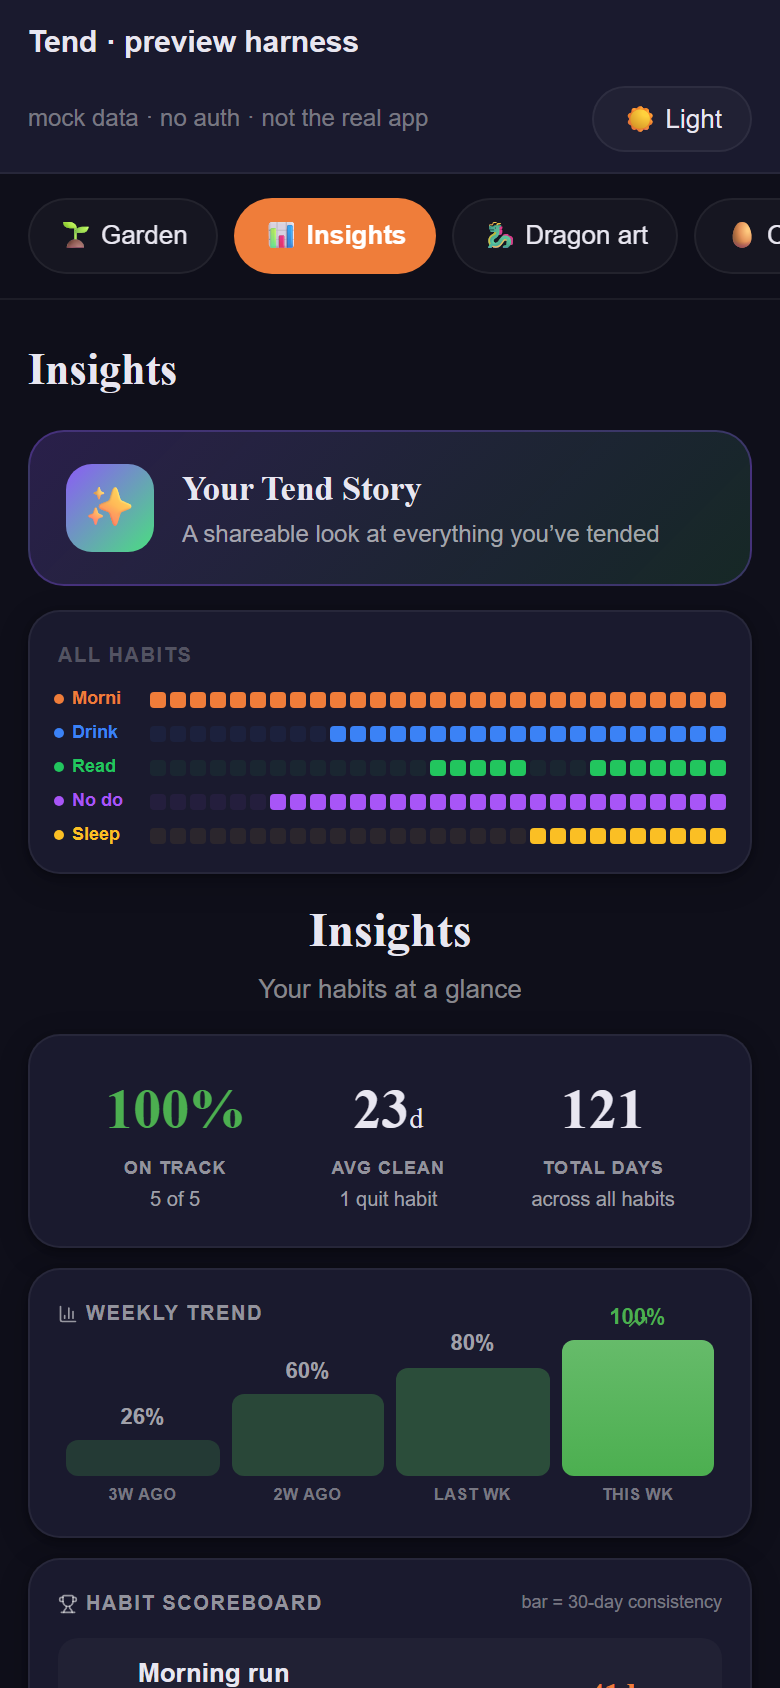
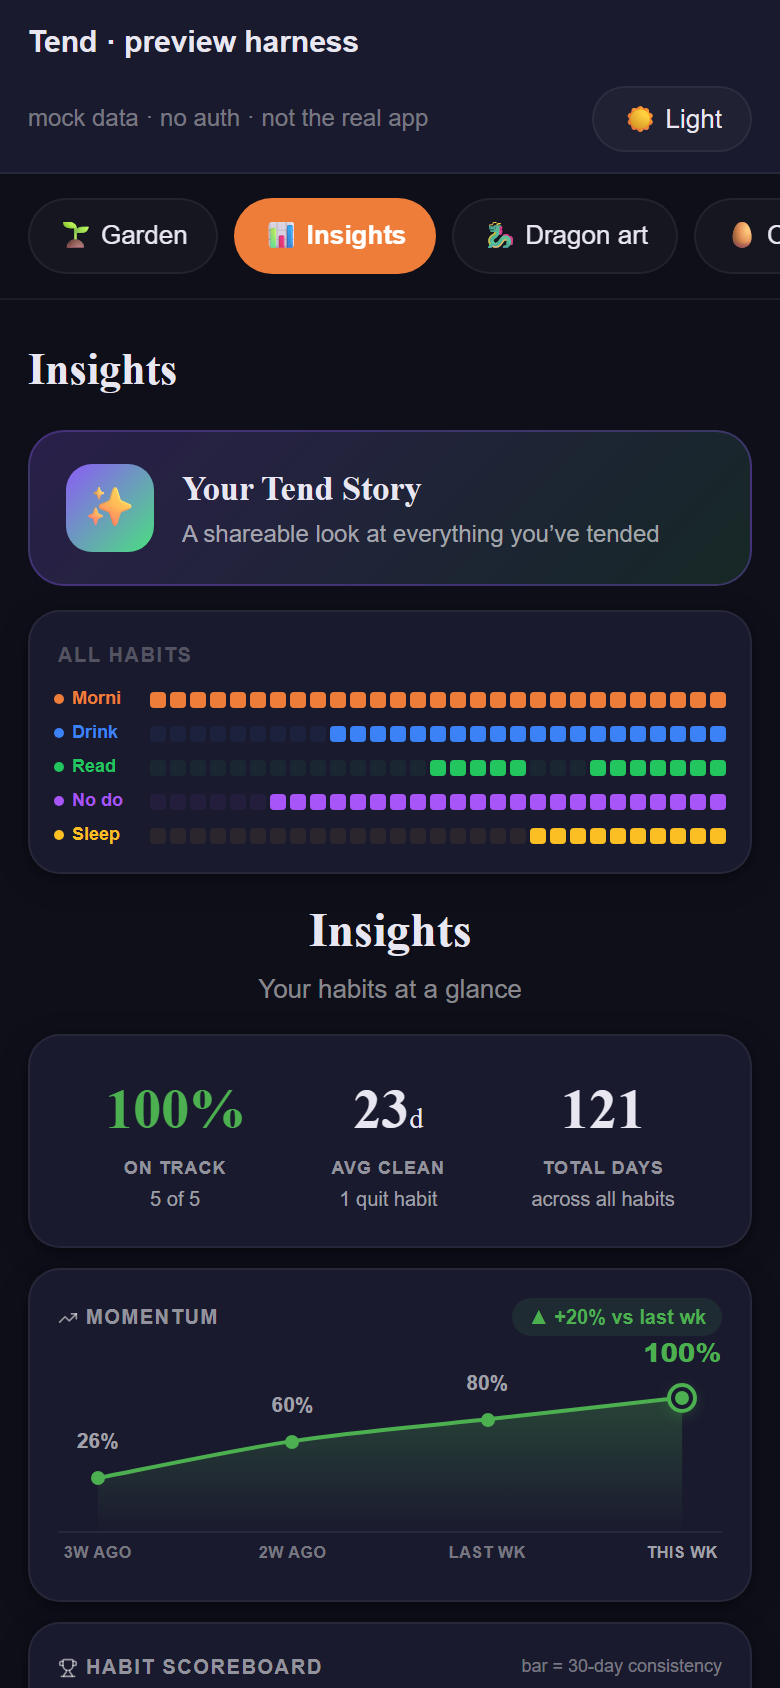
feat(insights): redesign Weekly Trend as a beautiful momentum curve
Replaces the flat, pale 4-bar "Weekly Trend" with a single-series area
sparkline in the Insights analytics screen — the first piece of the "make the
deep analytics genuinely beautiful" mandate (frontier item #3).

- Smooth Catmull-Rom -> cubic-bezier curve (new `smoothPath` helper) with a soft
  vertical green area gradient, drawn in a normalized 0..100 SVG space with
  preserveAspectRatio="none" + non-scaling stroke so it fills any width while the
  2px line stays crisp.
- Per dataviz best-practices for a single series: no legend (the title names it),
  values direct-labeled above each point (latest in bold accent, others in muted
  ink), the latest week emphasized with a larger glowing ringed marker, a
  recessive baseline, and a "up +20% vs last wk" delta pill for the headline change.
- On-brand green reads on both surfaces; verified in light AND dark via the
  file:// preview pipeline (proof shots refreshed).

Build/lint/test green (108); 0 new warnings.

Changed region(s): [[0.0308, 0.7701, 0.9846, 1.0]]

diff --git a/src/components/constellation.tsx b/src/components/constellation.tsx
@@ -3,7 +3,7 @@
 import { useMemo } from "react";
 import {
   Sparkles, TrendingUp, Shield, Flame, Heart, Calendar,
-  Crown, BarChart3, Trophy, Lock,
+  Crown, Trophy, Lock,
 } from "lucide-react";
 import { seed, daysAgo, daysBetween, today } from "@/lib/utils";
 import { useReducedMotion } from "@/hooks/useReducedMotion";
@@ -33,6 +33,32 @@ interface Synergy {
   coCount: number;
   name: string | null;
   label: string;
+}
+
+/**
+ * Build a smooth (Catmull-Rom → cubic-bézier) SVG path through points given in a
+ * normalized 0..100 user space. Used for the momentum curve; the SVG is drawn
+ * with preserveAspectRatio="none" + non-scaling stroke so it fills any width
+ * while the 2px line stays crisp. `close` extends the path down to the baseline
+ * for the area fill.
+ */
+function smoothPath(pts: { x: number; y: number }[], close = false): string {
+  if (pts.length === 0) return "";
+  if (pts.length === 1) return `M ${pts[0].x} ${pts[0].y}`;
+  let d = `M ${pts[0].x} ${pts[0].y}`;
+  for (let i = 0; i < pts.length - 1; i++) {
+    const p0 = pts[i - 1] ?? pts[i];
+    const p1 = pts[i];
+    const p2 = pts[i + 1];
+    const p3 = pts[i + 2] ?? p2;
+    const c1x = p1.x + (p2.x - p0.x) / 6;
+    const c1y = p1.y + (p2.y - p0.y) / 6;
+    const c2x = p2.x - (p3.x - p1.x) / 6;
+    const c2y = p2.y - (p3.y - p1.y) / 6;
+    d += ` C ${c1x.toFixed(2)} ${c1y.toFixed(2)}, ${c2x.toFixed(2)} ${c2y.toFixed(2)}, ${p2.x.toFixed(2)} ${p2.y.toFixed(2)}`;
+  }
+  if (close) d += ` L ${pts[pts.length - 1].x.toFixed(2)} 100 L ${pts[0].x.toFixed(2)} 100 Z`;
+  return d;
 }
 
 export function Constellation({
@@ -238,50 +264,88 @@ export function Constellation({
         </div>
       </div>
 
-      {/* ── 2. Weekly trend (FREE) ── */}
-      {habits.length > 0 && (
+      {/* ── 2. Momentum curve (FREE) — 4-week completion %, single-series area sparkline ── */}
+      {habits.length > 0 && (() => {
+        // Points in a normalized 0..100 space, inset from the edges so the end
+        // markers aren't clipped; y leaves headroom top (for a 100% peak) + bottom.
+        const yTop = 16, yBottom = 84, xL = 6, xR = 94;
+        const n = weeklyTrend.length;
+        const pts = weeklyTrend.map((w, i) => ({
+          x: n > 1 ? xL + (i / (n - 1)) * (xR - xL) : (xL + xR) / 2,
+          y: yTop + (1 - w.pct / 100) * (yBottom - yTop),
+          pct: w.pct,
+        }));
+        const last = weeklyTrend[n - 1];
+        const prev = n > 1 ? weeklyTrend[n - 2] : null;
+        const delta = prev ? last.pct - prev.pct : 0;
+        // Green reads on both surfaces; brighten the marker for dark contrast.
+        const line = "#4caf50";
+        const gid = "momentumFill";
+        return (
         <div className="cd" style={{ padding: 14, marginBottom: 10, background: th.card, borderColor: th.cardBorder, boxShadow: th.cardShadow }}>
-          <div className="lb" style={{ marginBottom: 10, color: th.label, display: "flex", alignItems: "center", gap: 4 }}>
-            <BarChart3 size={10} /> Weekly Trend
+          <div className="lb" style={{ marginBottom: 6, color: th.label, display: "flex", alignItems: "center", gap: 4 }}>
+            <TrendingUp size={10} /> Momentum
+            {prev && (
+              <span style={{
+                marginLeft: "auto", display: "inline-flex", alignItems: "center", gap: 3,
+                fontSize: 10, fontWeight: 700, letterSpacing: 0, textTransform: "none",
+                padding: "2px 8px", borderRadius: 999,
+                color: delta > 0 ? "#4caf50" : delta < 0 ? "#e57373" : th.textMuted,
+                background: delta > 0 ? "rgba(76,175,80,0.12)" : delta < 0 ? "rgba(229,115,115,0.12)" : th.progressBg,
+              }}>
+                {delta > 0 ? "▲" : delta < 0 ? "▼" : "•"} {delta > 0 ? "+" : ""}{delta}% vs last wk
+              </span>
+            )}
           </div>
-          <div style={{ display: "flex", alignItems: "flex-end", gap: 6, height: 80, padding: "0 4px" }}>
-            {weeklyTrend.map((w, i) => {
-              const barH = Math.max(4, (w.pct / 100) * 68);
-              const isThis = i === weeklyTrend.length - 1;
-              const improving = i > 0 && w.pct > weeklyTrend[i - 1].pct;
+          {/* chart area + overlaid markers/labels */}
+          <div style={{ position: "relative", height: 80, margin: "18px 0 20px" }}>
+            <svg viewBox="0 0 100 100" preserveAspectRatio="none" width="100%" height="80" style={{ display: "block", overflow: "visible" }}>
+              <defs>
+                <linearGradient id={gid} x1="0" y1="0" x2="0" y2="1">
+                  <stop offset="0%" stopColor={line} stopOpacity="0.28" />
+                  <stop offset="100%" stopColor={line} stopOpacity="0" />
+                </linearGradient>
+              </defs>
+              {/* baseline */}
+              <line x1="0" y1="100" x2="100" y2="100" stroke={th.cardBorder} strokeWidth="1" vectorEffect="non-scaling-stroke" />
+              <path d={smoothPath(pts, true)} fill={`url(#${gid})`} stroke="none" />
+              <path d={smoothPath(pts)} fill="none" stroke={line} strokeWidth="2"
+                strokeLinecap="round" strokeLinejoin="round" vectorEffect="non-scaling-stroke" />
+            </svg>
+            {pts.map((p, i) => {
+              const isThis = i === n - 1;
               return (
-                <div key={i} style={{ flex: 1, display: "flex", flexDirection: "column", alignItems: "center", gap: 4 }}>
+                <div key={i}>
+                  {/* value label above the point */}
                   <div style={{
-                    fontSize: 11, fontWeight: 700, color: isThis ? "#4caf50" : th.textSub,
-                  }}>
-                    {w.pct}%
-                  </div>
+                    position: "absolute", left: `${p.x}%`, top: `${p.y}%`,
+                    transform: "translate(-50%,-165%)", whiteSpace: "nowrap",
+                    fontSize: isThis ? 13 : 10.5, fontWeight: isThis ? 800 : 600,
+                    color: isThis ? line : th.textSub,
+                  }}>{p.pct}%</div>
+                  {/* marker */}
                   <div style={{
-                    width: "100%", height: barH, borderRadius: 6,
-                    background: isThis
-                      ? "linear-gradient(to top, #4caf50, #66bb6a)"
-                      : `rgba(76,175,80,${0.15 + (w.pct / 100) * 0.25})`,
-                    transition: "height 0.4s ease",
-                    position: "relative",
-                  }}>
-                    {improving && isThis && (
-                      <TrendingUp size={10} color="#4caf50" style={{
-                        position: "absolute", top: -14, left: "50%", transform: "translateX(-50%)",
-                      }} />
-                    )}
-                  </div>
+                    position: "absolute", left: `${p.x}%`, top: `${p.y}%`,
+                    transform: "translate(-50%,-50%)",
+                    width: isThis ? 11 : 7, height: isThis ? 11 : 7, borderRadius: "50%",
+                    background: line,
+                    border: isThis ? `2px solid ${th.card}` : "none",
+                    boxShadow: isThis ? `0 0 0 2px ${line}, 0 2px 8px rgba(76,175,80,0.45)` : "none",
+                  }} />
+                  {/* week label below */}
                   <div style={{
-                    fontSize: 8, fontWeight: 600, color: th.textMuted,
+                    position: "absolute", left: `${p.x}%`, top: "100%",
+                    transform: "translate(-50%, 5px)", whiteSpace: "nowrap",
+                    fontSize: 8, fontWeight: 600, color: isThis ? th.textSub : th.textMuted,
                     textTransform: "uppercase" as const, letterSpacing: 0.3,
-                  }}>
-                    {w.label}
-                  </div>
+                  }}>{weeklyTrend[i].label}</div>
                 </div>
               );
             })}
           </div>
         </div>
-      )}
+        );
+      })()}
 
       {/* ── 3. Habit scoreboard (FREE: top 3, PRO: all + best) ── */}
       {scoreboard.length > 0 && (
